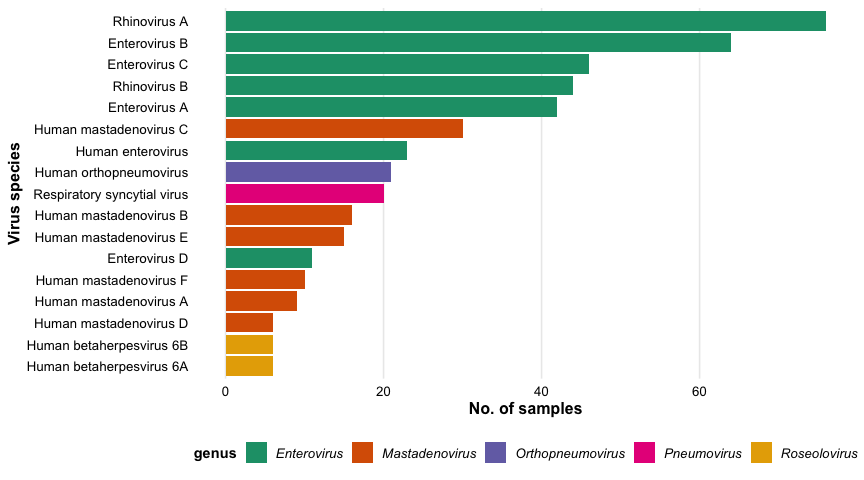
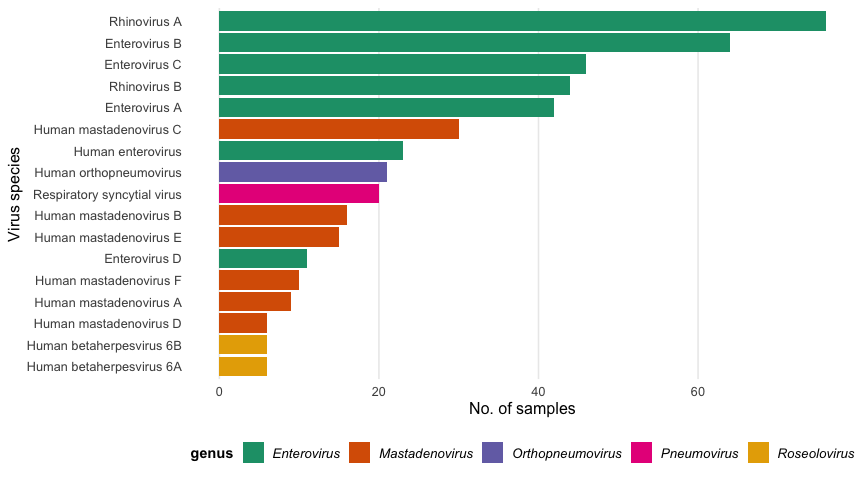
:broom: tidied figure code

diff --git a/04_avarda_figures_cross_reactivity.md b/04_avarda_figures_cross_reactivity.md
@@ -96,25 +96,19 @@ species were included.
 
 ``` r
 endia_indis_plot <- endia_avarda_onset %>%
-  mutate(
-    indis_tag = ifelse(Indistinguishablity.Groups >= 1, 1, 0),
-    species = str_replace_all(species, "_", " ")) %>%
+  mutate(indis_tag = ifelse(Indistinguishablity.Groups >= 1, 1, 0),
+         species = str_replace_all(species, "_", " ")) %>%
   group_by(genus, species) %>%
   summarise(indis_samples = sum(indis_tag), .groups = "drop") %>%
   filter(indis_samples > 5) %>%
   ggplot(aes(x = indis_samples, y = reorder(species, indis_samples))) +
   geom_bar(aes(fill = genus), stat = "identity") +
   scale_fill_manual(values = c("#1b9e77", "#d95f02", "#7570b3", "#e7298a", "#e6ab02")) +
-  ylab("Virus species") +
-  xlab("No. of samples") +
+  labs(x = "No. of samples", y = "Virus species") +
   theme_minimal(base_size = 12) +
   theme(
-    plot.background = element_rect(fill = "white", color = NA),  # White plot background
-    panel.background = element_rect(fill = "white", color = NA), # White panel background
-    axis.text.y = element_text(size = 10, color = "black"),
-    axis.text.x = element_text(size = 10, color = "black"),
-    axis.title = element_text(size = 12, face = "bold"),
-    plot.title = element_text(size = 14, face = "bold", hjust = 0.5),
+    plot.background = element_rect(fill = "white", color = NA),
+    panel.background = element_rect(fill = "white", color = NA),
     panel.grid.major.y = element_blank(),
     panel.grid.minor = element_blank(),
     legend.position = "bottom",
